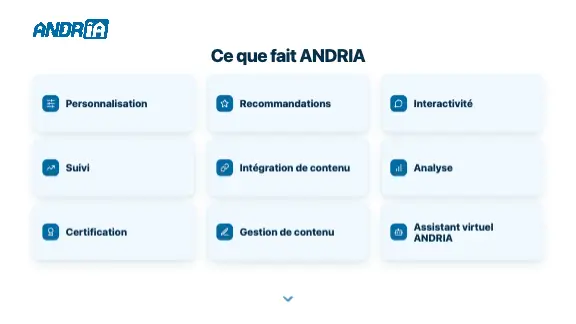
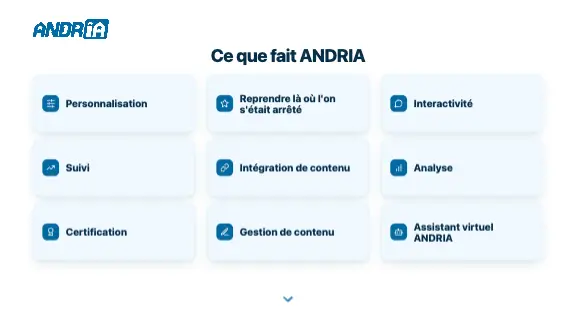
fix: remplace la tuile « Recommandations » par « Reprendre là où l'on s'était arrêté »
Les suggestions de contenus personnalisées sont encore listées « Prochainement » dans le LXP ; la reprise de la dernière leçon existe déjà sur le tableau de bord apprenant.

Changed region(s): [[0.4062, 0.2778, 0.5938, 0.3704]]

diff --git a/composition/js/content.js b/composition/js/content.js
@@ -1837,8 +1837,8 @@ window.CONTENT = {
         "text": "Chacun adapte son apprentissage à ses intérêts et à ses objectifs."
       },
       {
-        "title": "Recommandations",
-        "text": "Du contenu proposé selon l'historique d'apprentissage et les préférences."
+        "title": "Reprendre là où l'on s'était arrêté",
+        "text": "L'apprenant retrouve sa dernière leçon et la reprend en un clic."
       },
       {
         "title": "Interactivité",

diff --git a/PLAN.md b/PLAN.md
@@ -51,7 +51,7 @@ lxp-showcase-2026/
 3. **PAUSE** → **LXP vs LMS** : tableau à 5 lignes, animé ligne par ligne (centré contenus ↔ centré utilisateur, etc.), phrase de conclusion « créer le contenant qui produit les données ».
 
 ### S2 — Scène intermédiaire 2 : caractéristiques
-- Le logo reste en haut, 9 tuiles interactives en dessous (une par caractéristique : Personnalisation, Recommandations, Interactivité, Suivi, Intégration de contenu (Moodle), Analyse, Certification, Gestion de contenu, Assistant virtuel). Survol / clic = tuile qui s'agrandit avec un court texte et une icône Lucide. La tuile 2 du brief original était vide : la liste ci-dessus la remplit.
+- Le logo reste en haut, 9 tuiles interactives en dessous (une par caractéristique : Personnalisation, Reprise de l’apprentissage, Interactivité, Suivi, Intégration de contenu (Moodle), Analyse, Certification, Gestion de contenu, Assistant virtuel). Survol / clic = tuile qui s'agrandit avec un court texte et une icône Lucide. La tuile 2 du brief original était vide : la liste ci-dessus la remplit.
 - Tuiles optionnelles, pas de gate obligatoire par tuile : le chevron suffit pour avancer.
 - **Transition S2 → S3** : le logo et les logos partenaires disparaissent (animation existante inversée), puis « 2022 » et « 2026 » glissent chacun vers un côté, sans toucher les bords (marge de 4 vw).
 

diff --git a/SCRIPT.md b/SCRIPT.md
@@ -87,7 +87,7 @@ Légende : **[PAUSE]** = la lecture s'arrête jusqu'à une interaction (chevron,
 | # | Tuile | Phrase |
 |---|---|---|
 | 1 | Personnalisation | Chacun adapte son apprentissage à ses intérêts et à ses objectifs. |
-| 2 | Recommandations | Du contenu proposé selon l'historique et les préférences. |
+| 2 | Reprendre là où l'on s'était arrêté | L'apprenant retrouve sa dernière leçon et la reprend en un clic. |
 | 3 | Interactivité | Échanger avec le contenu et avec les autres, poser des questions. |
 | 4 | Suivi | Suivre ses progrès et se fixer des objectifs à atteindre. |
 | 5 | Intégration de contenu | Cours en ligne, autres plateformes (Moodle), articles, vidéos. |
